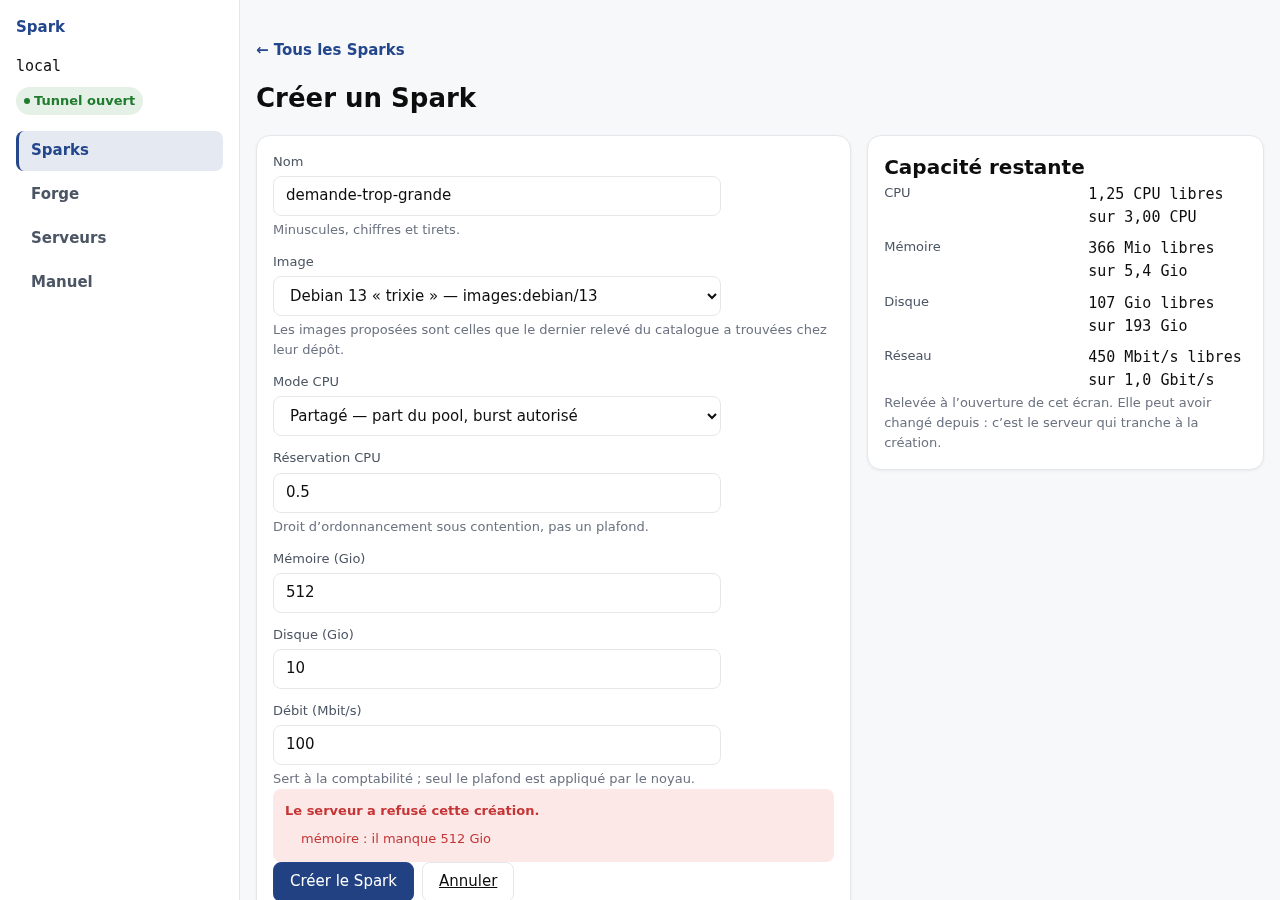
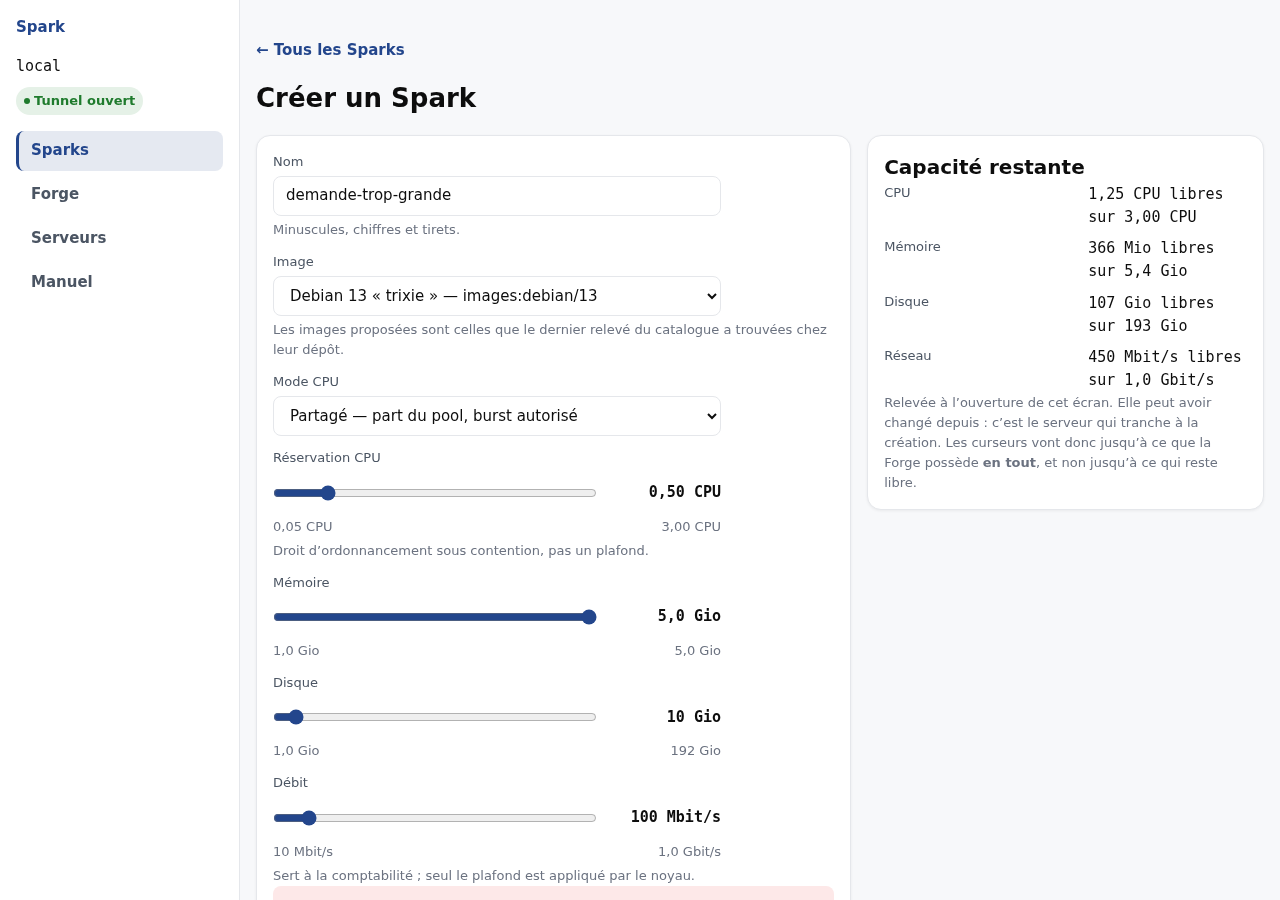
Éprouve le curseur au clavier, et garde le refus du serveur atteignable
On ne remplit pas un curseur : `page.fill` rend « Malformed value ». REFUS 1
pousse donc la mémoire à sa borne haute avec la touche Fin, vérifie chez sparkd
que la demande dépasse bien le disponible, et obtient le refus réel. Le geste
est meilleur que celui qu'il remplace — c'est un utilisateur au clavier, pas
une injection de valeur — et il prouve au passage que le curseur s'emploie sans
souris.

Le DAT §25.4 écrit le raisonnement que l'écran applique : une borne prise sur
le disponible priverait le produit de sa seule preuve d'écran que c'est le
serveur qui décide.

Captures 15 à 19 refaites, plus 19b pour l'état de repli en saisie. Les
illustrations M5 du manuel sont reproduites depuis l'application.

INC-08 consigne un défaut voisin laissé inchangé : l'erreur d'un champ survit
à sa correction jusqu'à la soumission suivante. Il est antérieur à cette unité.

docs/BACKLOG.md#SPK-59 passe à [x].

diff --git a/docs/BACKLOG.md b/docs/BACKLOG.md
@@ -2302,7 +2302,7 @@ transport.
   `env_file:` ; manuel M6/M8 et
   seed mis à jour.
 
-### [ ] SPK-59 · Les quotas se règlent au curseur
+### [x] SPK-59 · Les quotas se règlent au curseur
 
 **Demande du responsable, 2026-08-20.** Les quotas de l'écran de création se
 saisissent au clavier, chiffre par chiffre, alors que ce sont des valeurs bornées
@@ -2331,6 +2331,41 @@ manipulables, et que ce pas ne détruit pas la granularité que la valeur signif
   calcul des bornes ; parcours E2E qui règle un quota **au clavier** depuis le
   parcours canonique et obtient le refus réel du serveur ; captures observées aux
   trois formats ; manuel M5 et design system mis à jour dans le même changement.
+- **Clos le 2026-08-20.** Livré et vérifié :
+  - règle générale au `docs/DESIGN_SYSTEM.md` **§6.9 bis**, application au
+    **SPK-DS-07**, raisonnement de la borne au `docs/DAT.md` **§25.4** ;
+  - **585 tests de console verts**, dont 20 propres à l'unité : borne prise sur la
+    capacité et non sur le disponible, cœurs bornés par les cœurs physiques,
+    repli en saisie quand la capacité manque, repli quand la plage dépasse les
+    crans atteignables, seuil de crans calculé et non déclaré, valeur en clair et
+    `aria-valuetext`, deux bornes écrites, borne basse qui ne produit jamais une
+    valeur refusée, libellé qui ne porte l'unité que pour la saisie ;
+  - **deux garde-fous de non-application** : un port de connexion et un port
+    publié doivent rester des saisies. Ce sont eux qui empêcheront la préférence
+    de déborder sur ce qu'elle ne doit pas toucher ;
+  - **50 parcours E2E verts**, dont REFUS 1 réécrit : il pousse le curseur de
+    mémoire à sa borne haute **au clavier** (`Fin`), vérifie que la demande
+    dépasse le disponible relevé chez `sparkd`, constate que le bouton n'est
+    jamais désactivé avant l'envoi, et obtient le refus réel du serveur ;
+  - **captures observées** à 1440, 1024, 768 et 390 px, plus l'état de repli
+    (`19b-creation-sans-capacite.png`) : aucun débordement horizontal, la valeur
+    et les bornes tiennent à 390 px ;
+  - illustrations du manuel `m5-formulaire` et `m5-refus` refaites depuis
+    l'application, et observées.
+- **Mesure qui vaut d'être retenue** : sur la pile de validation, le pool mémoire
+  est de 5,4 Gio et le pool disque de 192 Gio — les deux passent au curseur. Sur
+  la Forge réelle, dont les deux disques de 6 To donnent plus de 5 000 Gio, le
+  disque **retombe en saisie** par la condition 3. La règle sépare donc bien les
+  deux cas sur du matériel réel, sans qu'on ait eu à écrire d'exception.
+- **Corrigé dans le même changement, parce que le curseur le rendait intenable** :
+  l'avertissement de capacité ne se rafraîchissait jamais pendant la saisie —
+  seul un changement de mode CPU provoquait un repeint. La capture 17 d'avant
+  cette unité le montre : 64 Gio demandés, 64 Gio libres annoncés, aucun mot. Il
+  se rafraîchit maintenant sans repeindre le formulaire, ce qui arracherait la
+  poignée en cours de glissement.
+- **Défaut voisin NON corrigé, et consigné** : `docs/INCONSISTENCY_REPORT.md`
+  **INC-08** — l'erreur d'un champ survit à sa correction jusqu'à la soumission
+  suivante. Antérieur à cette unité, mesuré sur la capture d'avant.
 
 ---
 

diff --git a/docs/INCONSISTENCY_REPORT.md b/docs/INCONSISTENCY_REPORT.md
@@ -124,3 +124,32 @@ navigation qui déborde de l'unité en cours.
 **Pour clore.** Décider de la forme au format étroit, l'appliquer à
 `.onglet`, et vérifier par une mesure que `scrollWidth` retombe à la largeur de
 la vue sur les sept facettes.
+
+### INC-08 · L'erreur d'un champ survit à sa correction, jusqu'à la soumission suivante
+
+**Constaté le** 2026-08-20, en observant les captures de SPK-59.
+
+**Mesure.** Sur `e2e/captures/17-creation-avertissement.png` et
+`16-creation-forme-invalide.png` : le champ *Nom* porte « gros-spark », une valeur
+parfaitement bien formée, et l'écran affiche toujours dessous, en rouge,
+« Requis pour créer un Spark. » L'erreur date de la soumission vide précédente.
+
+**Cause.** `etat.creation.errors` n'est recalculé que dans `creer()`, à la
+soumission. L'écouteur `input` du formulaire écrit la valeur dans l'état mais ne
+rejoue pas `validateShape`, et rien ne repeint le champ. L'erreur reste donc
+affichée jusqu'à la soumission suivante.
+
+**Ligne de base établie** : le défaut est visible sur la capture 17 telle qu'elle
+existait AVANT SPK-59 — le champ portait déjà « gros-spark » et déjà le message
+rouge. Il est antérieur aux curseurs et ne leur appartient pas.
+
+**Ce que cela viole.** `docs/DESIGN_SYSTEM.md` §6.12 : « Un champ manquant et un
+champ incorrect ne constituent pas le même état. » Un message d'erreur qui ne
+décrit plus le champ qu'il désigne est un indicateur qui ment, et le §5.1 du même
+document dit qu'un indicateur qui ment est pire qu'un indicateur absent.
+
+**Comportement laissé inchangé** (CloudWorker §3.1). La correction demande de
+trancher QUAND une erreur de forme se réévalue — à chaque frappe, à la perte du
+focus, ou seulement après une première soumission —, et cet arbitrage appartient
+à l'écran de création dans son ensemble, pas à l'unité qui a changé la forme de
+ses contrôles de quota.

diff --git a/docs/DAT.md b/docs/DAT.md
@@ -2465,6 +2465,32 @@ runtime.
 La distinction est celle du §14.9 : un champ **mal formé** se signale tout de
 suite, un champ **qui ne tiendra peut-être pas** se soumet quand même.
 
+### 25.4 Pourquoi un curseur de quota s'arrête à la capacité, et pas au disponible
+
+Les quotas se règlent au curseur (`docs/DESIGN_SYSTEM.md` §6.9 bis,
+`docs/DESIGN_SYSTEM_APP.md` SPK-DS-07). Un curseur a une borne haute, ce qui
+soulève exactement la question du §25.1 : cette borne est-elle une information ou
+une décision ?
+
+Elle est une information, **à condition de la prendre sur la capacité totale de
+la Forge et jamais sur ce qui reste libre**. Le disponible est la photographie du
+§25.1, il se périme dans le sens favorable, et un curseur qui s'y arrêterait
+serait pire qu'un bouton désactivé : un refus qui ne se voit même pas. La
+capacité, elle, ne bouge pas entre l'ouverture de l'écran et la soumission —
+c'est le raisonnement du §33.5, une contrainte stable se pose dans le contrôle,
+une contrainte périmable appartient au serveur.
+
+Conséquence à préserver dans toute évolution de cet écran : **le refus
+d'admission doit rester atteignable depuis le parcours canonique**. Pousser le
+curseur de mémoire à sa borne haute demande tout ce que la machine possède, donc
+plus que ce qui reste libre dès qu'un seul Spark existe. C'est ce que fait le
+parcours REFUS 1. Une borne prise sur le disponible priverait le produit de sa
+seule preuve d'écran que le serveur décide.
+
+Quand la capacité n'a pas pu être relevée, ou que la plage ne se parcourt pas
+sans perdre la granularité métier, le champ redevient une saisie numérique. Cela
+ne change rien au reste du §25 : le contrôle change de forme, jamais d'autorité.
+
 
 ## 26. Les trois surfaces d'administration d'un Spark
 
